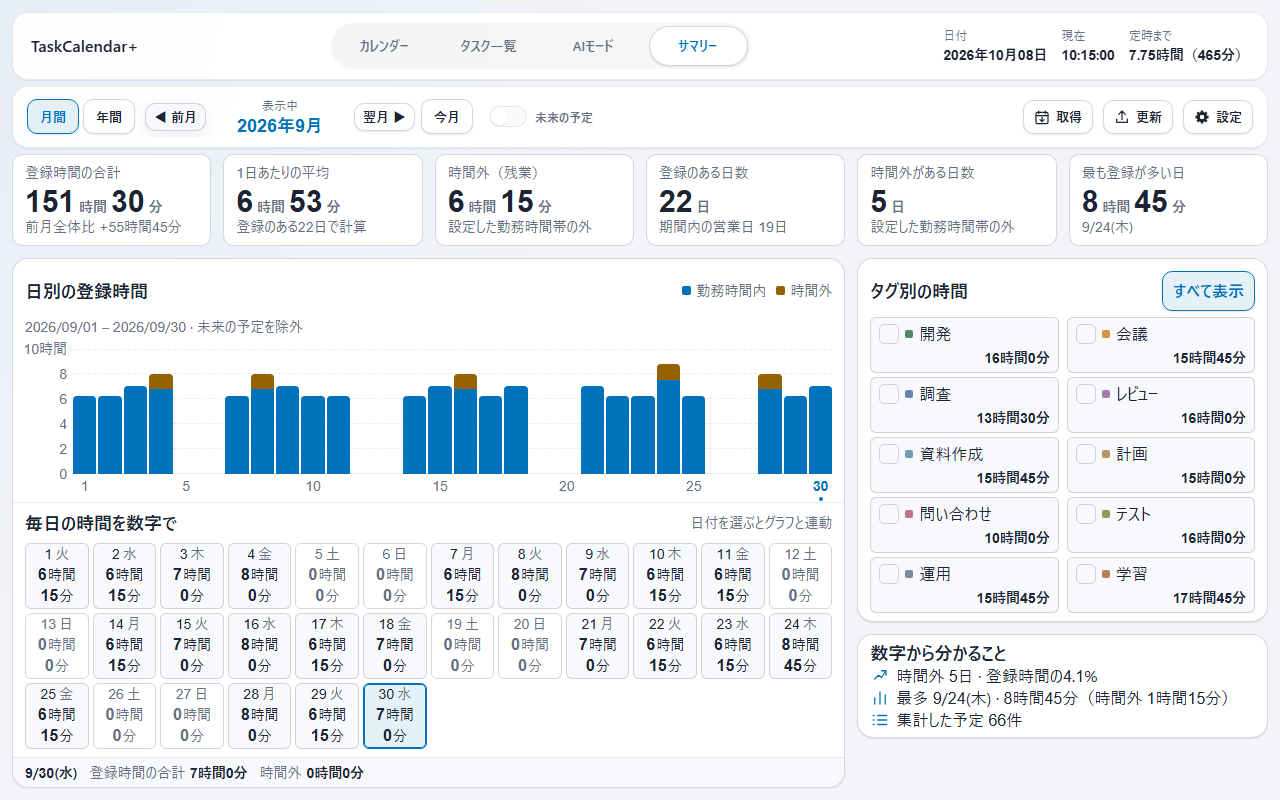
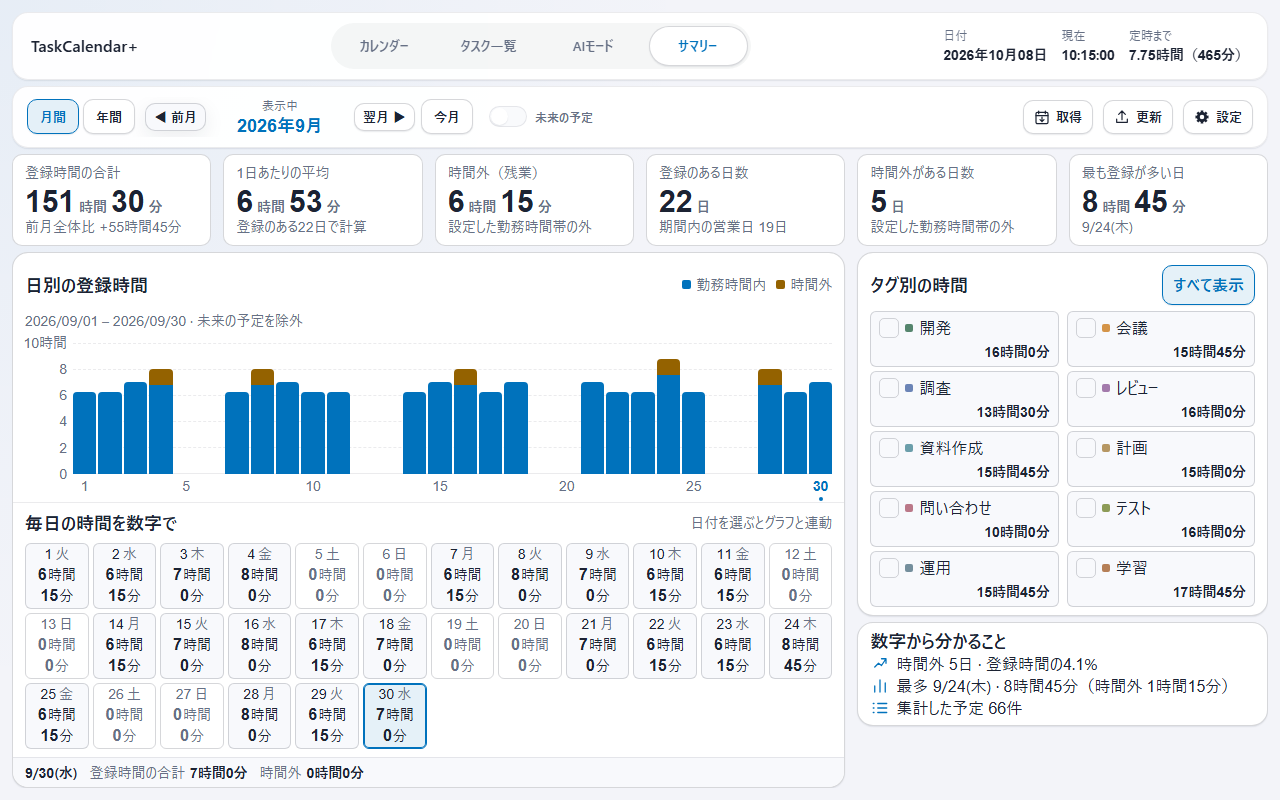
fix: unify summary vertical section spacing

diff --git a/src-tauri/renderer/assets/summary.css b/src-tauri/renderer/assets/summary.css
@@ -1,5 +1,5 @@
 /* Larger typography belongs to Summary content, not the shared application shell. */
-.summaryView { --summary-inset: 12px; }
+.summaryView { --summary-inset: 12px; --summary-section-gap: 6px; }
 .summaryScreen { --font-body: 16px; --font-caption: 14px; --font-section: 18px; font-size: 16px; line-height: 1.4; }
 .summaryView:not([hidden]) { display: contents; }
 .summaryView, .summaryView * { box-sizing: border-box; }
@@ -13,12 +13,12 @@
 .summaryPeriodDisplay { display: flex; flex-direction: column; align-items: center; justify-content: center; min-width: 136px; padding: 0 8px; text-align: center; white-space: nowrap; }
 .summaryPeriodDisplay > span { font-size: var(--font-caption); line-height: 16px; color: var(--muted); }
 .summaryPeriodDisplay > strong { font-size: 18px; line-height: 24px; color: var(--accent-strong); }
-.summaryScreen { grid-row: 3; margin-top: 6px; min-width: 0; min-height: 0; display: flex; flex-direction: column; gap: 12px; overflow-y: auto; }
+.summaryScreen { grid-row: 3; margin-top: var(--summary-section-gap); min-width: 0; min-height: 0; display: flex; flex-direction: column; gap: var(--summary-section-gap); overflow-y: auto; }
 .summaryScreen:has(.summaryNotice:not([hidden])) .summaryContent { flex: 0 0 auto; min-height: 520px; }
 .summaryNotice { display: flex; align-items: center; justify-content: space-between; gap: 12px; padding: 8px 12px; border: 1px solid var(--danger); border-radius: 8px; background: var(--panel); flex-shrink: 0; }
 .summaryNotice p { font-size: 16px; margin: 0; }
 /* Both rows share six equal tracks, so the four/two split stays aligned at any width. */
-.summaryMetrics, .summaryContent { display: grid; grid-template-columns: repeat(6,minmax(0,1fr)); gap: 12px; }
+.summaryMetrics, .summaryContent { display: grid; grid-template-columns: repeat(6,minmax(0,1fr)); gap: var(--summary-section-gap) 12px; }
 .summaryMetrics { flex-shrink: 0; }
 .summaryMetric { display: flex; flex-direction: column; min-width: 0; padding: 8px 12px; border: 1px solid var(--border-strong); border-radius: var(--radius-md); background: var(--panel); }
 .summaryMetricLabel { flex: 1; font-size: 14px; line-height: 20px; color: var(--muted); }
@@ -26,7 +26,7 @@
 .summaryMetricValue small { font-size: 14px; line-height: 20px; font-weight: 500; margin: 0 4px; color: var(--muted); }
 .summaryMetricDetail { font-size: 14px; line-height: 20px; color: var(--muted); overflow: hidden; text-overflow: ellipsis; white-space: nowrap; }
 .summaryContent { flex: 1; min-width: 0; min-height: 476px; }
-.summarySide { grid-column: span 2; display: flex; flex-direction: column; gap: 12px; min-width: 0; min-height: 0; }
+.summarySide { grid-column: span 2; display: flex; flex-direction: column; gap: var(--summary-section-gap); min-width: 0; min-height: 0; }
 .summaryPanel { min-width: 0; border: 1px solid var(--border-strong); border-radius: var(--radius-lg); background: var(--panel); box-shadow: var(--shadow-sm); }
 .summaryPanelHeading, .summaryNumbersHeading { display: flex; align-items: center; justify-content: space-between; gap: 10px; padding: 4px var(--summary-inset); flex-shrink: 0; }
 .summaryPanelHeading h2, .summaryNumbersHeading h2, .summaryInsights h2 { margin: 0; font-size: 18px; line-height: 24px; font-weight: 700; }

diff --git a/docs/reviews/summary-readable.md b/docs/reviews/summary-readable.md
@@ -17,6 +17,7 @@
 | タグ | 右の領域 | 右側の2列を維持。名前と時間を上下に表示 |
 | タグの見出し | 上余白2px | 上余白12pxを確保し、左のグラフ見出しとも整列 |
 | 上段と下段の縦境界 | 右列400px固定で上段カードと不一致 | 同じ6列を共有し、グラフは4列、タグ・要約は2列。上段4／5枚目との境界を揃える |
+| セクション間の縦余白 | ツールバー下6px、他は12px | カード行→下段、タグ→要約も6pxに統一。横の間隔12pxは維持 |
 | 要約 | 小さい文章を複数行 | 同じ日数・割合・最長日・件数を簡潔な文で表示 |
 
 すべての棒と日付の数字は残している。グラフの横軸は間隔を空けて日付を表示し、選択した日も表示する。タグの時間割合は、時間表示のツールチップで確認できる。
@@ -56,7 +57,7 @@
 
 ![ダークテーマ](../images/summary-readable/month-dark.png)
 
-上段4枚目の右端とグラフの右端、5枚目の左端とタグ・要約の左端を揃えた。両段の間隔は12px。提示画像に近い1422×866のCSS表示領域では、それぞれ940px／952pxで一致する。次は3タグの検証用データで撮影した実renderer。
+上段4枚目の右端とグラフの右端、5枚目の左端とタグ・要約の左端を揃えた。両段とも横の間隔は12px、セクション間の縦余白は6px。提示画像に近い1422×866のCSS表示領域では、それぞれ940px／952pxで一致する。次は3タグの検証用データで撮影した実renderer。
 
 ![上段と下段の縦境界を統一](../images/summary-readable/aligned-columns.png)
 
@@ -80,7 +81,7 @@
 
 ## 確認条件と限界
 
-今回の縦境界修正後は、関連する5スイート（整列・今月復帰・読みやすさ・サマリー操作・共通UI）が合格。整列は3／10タグ×3画面幅×月間／年間を比較し、修正前のずれを検出してから修正後の一致を確認した。04a200f時点のNode49スイート・JavaScript58ファイルの構文検査は過去の結果で、今回の全体再実行を意味しない。集計計算・DBスキーマ・ネイティブ処理は変更していない。画像と検証範囲は[検証記録](summary-readable-evidence.json)に保存した。
+今回の縦余白修正後は、関連する3スイート（整列・今月復帰・読みやすさ）が合格。整列は3／10タグ×3画面幅×月間／年間を比較し、修正前の12pxと修正後の6pxを矩形で確認した。横方向の境界・文字サイズ・スクロール修正も維持している。04a200f時点のNode49スイート・JavaScript58ファイルの構文検査は過去の結果で、今回の全体再実行を意味しない。集計計算・DBスキーマ・ネイティブ処理は変更していない。画像と検証範囲は[検証記録](summary-readable-evidence.json)に保存した。
 
 - 1280×800・1366×768で、31日・10タグ・指標6個とグラフを、通常時はスクロールなしで表示する。
 - 文字サイズの下限、実際の文字領域の欠け、操作部の重なり、パネル間の重なりを計測する。23時間59分の日別表示と選択連動、年間8,753時間55分の桁数でも6カード内に収まることを確認した。

diff --git a/docs/superpowers/plans/2026-10-24-summary-readable-ui.md b/docs/superpowers/plans/2026-10-24-summary-readable-ui.md
@@ -33,6 +33,8 @@
 
 **Vertical alignment from screenshot:** User marks the boundary near metric4/5 with a red line. Use the same six equal tracks and12px gap for metrics and lower content: chart/numbers span4, tags/insights span2. Match chart right to metric4 right and tags/insights left to metric5 left at every desktop width. Preserve small-screen stacking, typography, period caption and the current-month overflow fix.
 
+**Section spacing correction:** User marks the excessive horizontal band between the metric cards and lower panels. Match the existing toolbar/content6px vertical spacing through one Summary section-gap variable: toolbar-to-content margin, metric-to-panel gap, tag-to-insight gap, and stacked responsive rows. Keep horizontal grid gaps12px and all text sizes. Verify actual rectangles at3/10tags, three desktop widths and month/year.
+
 - No aggregation changes, new AI calls, live Outlook calls, DB schema migration, application version bump, release, or main merge. Native launch was separately authorized and performed before the six-metric correction; the current audit uses isolated Chromium.
 - No change to task data. Use synthetic data/API/native bridge for UI tests and screenshots.
 - Keep month/year modes, future inclusion, tag paging, errors/retry, saved average denominator, keyboard focus, empty states and nine locales. Metric selection UI is intentionally removed by the latest correction.

diff --git a/CHANGELOG.md b/CHANGELOG.md
@@ -8,6 +8,7 @@
 - 期間移動を既存カレンダーと同じ説明＋矢印のボタンへ統一。タグ見出しと「すべて表示」の上余白を確保。
 - 「今月」へ戻った際、要約の折り返しでスクロールバーが出る問題を修正。タグ内の余白を残り高さに合わせて調整し、文字サイズは維持。「表示中」の年月・年を強調。
 - 上段6カードと下段を同じ6列で配置。グラフの右端を4枚目、タグ・要約の左端を5枚目に揃え、間隔も統一。
+- セクション間の縦余白を既存画面と同じ6pxへ統一。横の12px間隔と文字サイズを維持。
 - 未来予定スイッチ、月間・年間の選択状態を既存UIへ統一。狭幅でも上部4タブを同じ行に表示。
 - 設定の更新確認・Outlook自動同期スイッチの位置と、狭幅のタグ下限・上限入力の見切れを修正。
 - 31日・10タグの標準画面、小さい表示領域、再取得エラー、多言語での読みやすさと操作到達性を検証。
